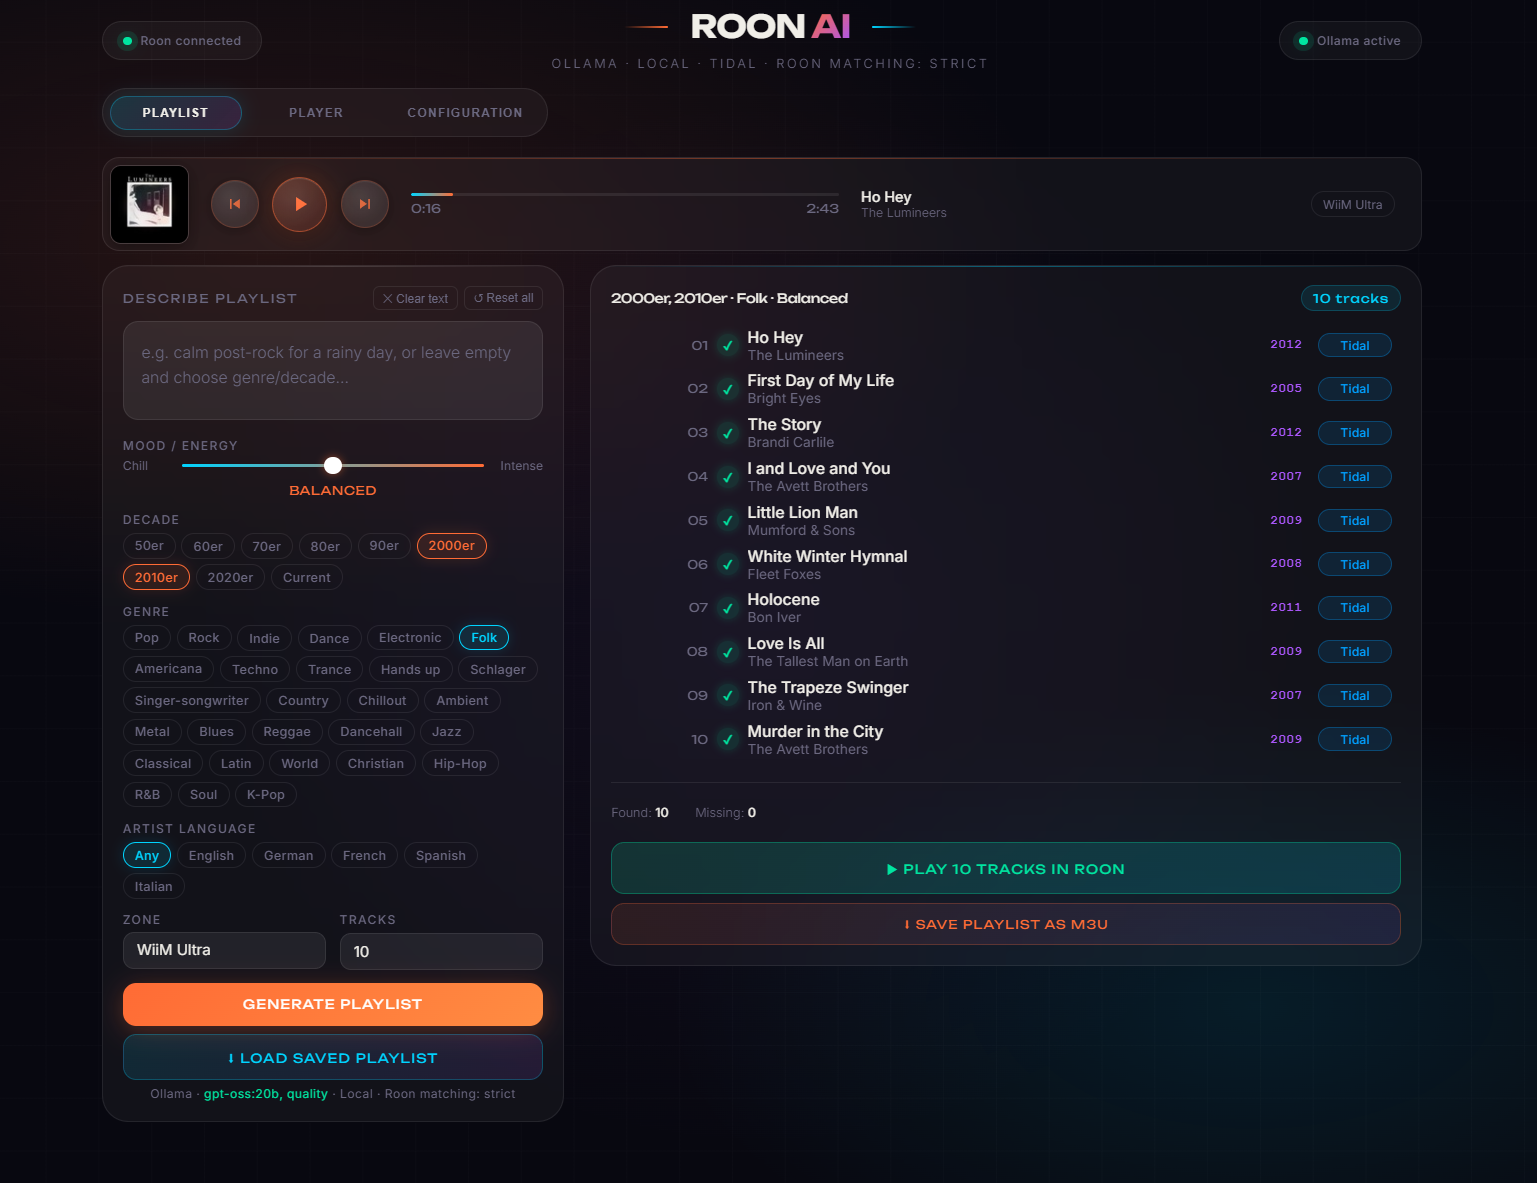
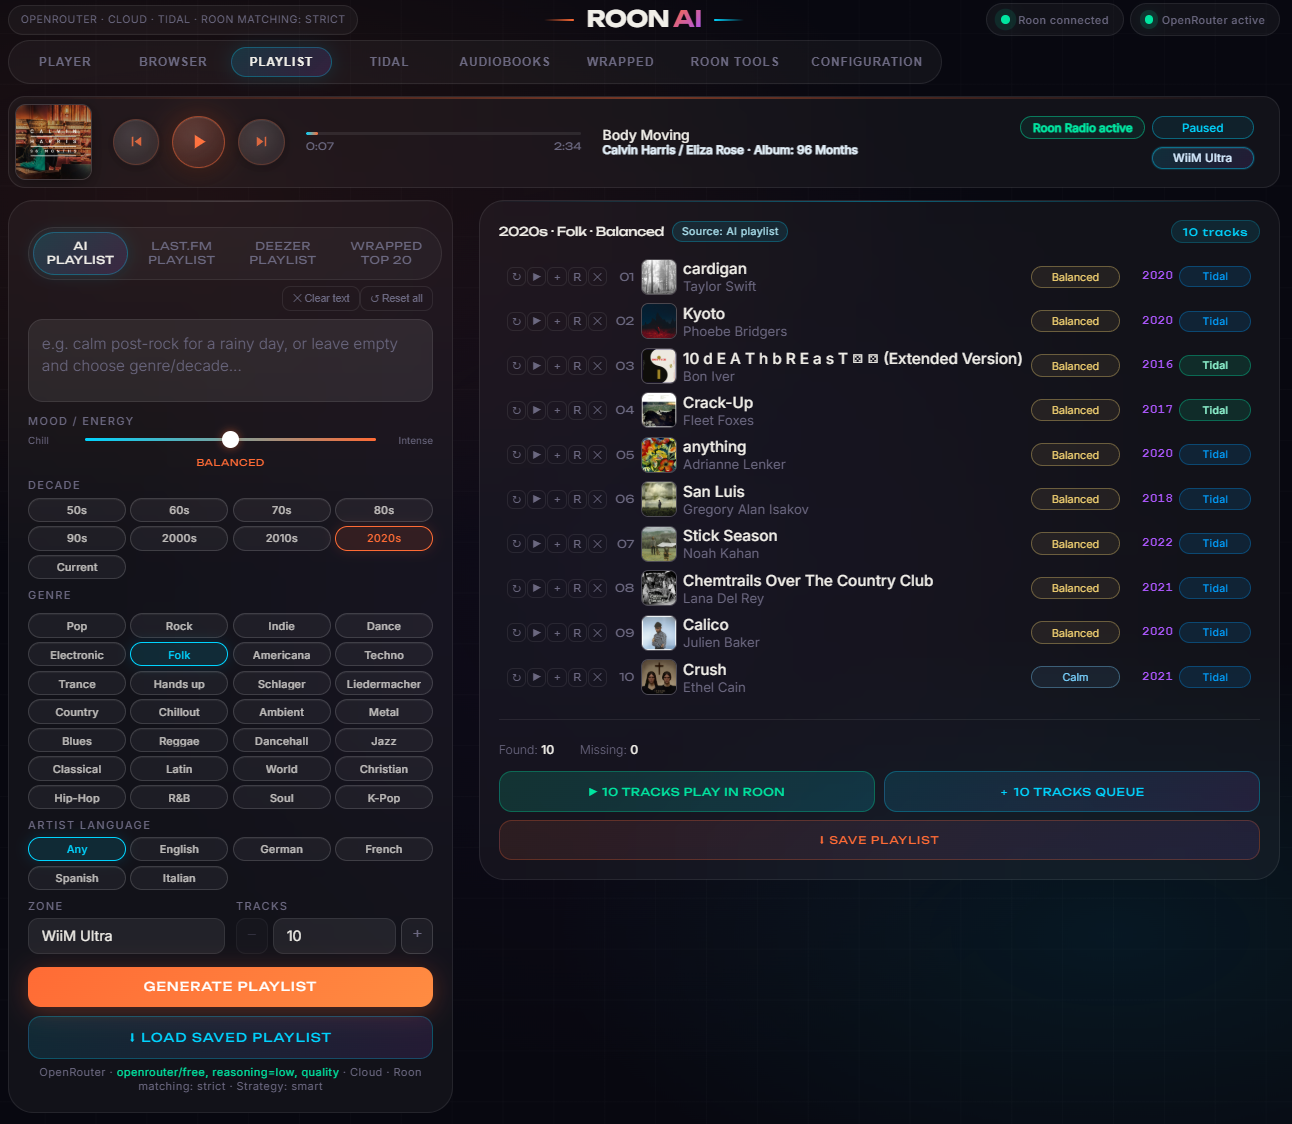
docs: add AI and Last.fm playlist visuals

diff --git a/docs/BENUTZERHANDBUCH_DE.md b/docs/BENUTZERHANDBUCH_DE.md
@@ -216,6 +216,21 @@ Die Spotify-Darstellung ist eine Ansicht für Wiedergabe, die über Roon eintrif
 5. Zielzone und gewünschte Titelanzahl wählen.
 6. Playlist erzeugen.
 
+Die freie Beschreibung darf leer bleiben, wenn die strukturierten Filter den Wunsch bereits vollständig ausdrücken. Stimmung und Energie, Jahrzehnt, Genre und Interpreten-Sprache werden mit dem aktuellen Anbieter und Modell kombiniert. Die Fußzeile nennt das erzeugende Modell und die verwendete Roon-Abgleichsstrategie.
+
+Das Ergebnis ist eine bearbeitbare Arbeitsliste und keine undurchsichtige Ein-Klick-Aktion. Einzelne Kandidaten lassen sich probeweise starten, anhängen, ersetzen oder entfernen, bevor das Gesamtergebnis an Roon übergeben wird. Providerkennzeichnung, Jahr und Energielabel helfen dabei, eine unpassende Ausgabe oder einen Ausreißer zu erkennen.
+
+### Last.fm-Tag-Playlist erstellen
+
+![Last.fm-Tags und die daraus entstandene Roon-geprüfte Playlist](../assets/screenshots/lastfm.png)
+
+1. **Last.fm-Playlist** als Quelle wählen.
+2. Einen oder mehrere Jahrzehnt-/Jahr-, Sprach-, Genre-, Stil- oder Atmosphäre-Tags markieren.
+3. Roon-Zone und Titelanzahl auswählen.
+4. **Last.fm Top-Titel laden** verwenden.
+
+Last.fm liefert populäre Kandidaten zur gewählten Tagkombination; anschließend führt die App den normalen Roon-Abgleich aus. Die Ergebnisüberschrift bewahrt die gewählten Tags, während die Fußzeile gefundene und fehlende Kandidaten trennt. **Alle zurücksetzen** löscht die Auswahl; eine zuvor gespeicherte Playlist kann geladen werden, ohne die Last.fm-Anfrage zu wiederholen.
+
 ### Roon-Abgleich verstehen
 
 Die Vorschläge werden nicht ungeprüft abgespielt. Die App sucht jeden Kandidaten in der tatsächlichen Roon-Bibliothek und zeigt:
@@ -239,7 +254,7 @@ Je nach Ansicht stehen zur Verfügung:
 
 ### Taglisten verwalten
 
-Die auswählbaren Kategorien für Last.fm-, KI- und Deezer-basierte Quellen können unter **Konfiguration > Dienste** bearbeitet und geprüft werden. Änderungen sollten vor dem Speichern validiert werden.
+Die auswählbaren Kategorien für Last.fm-, KI- und Deezer-basierte Quellen können unter **Konfiguration > Dienste** bearbeitet und geprüft werden. Änderungen sollten vor dem Speichern validiert werden. Diese gepflegten Tags bestimmen die auswählbaren Schaltflächen der Playlist-Ansicht, sodass eine Installation ihr Vokabular ohne Änderung der App anpassen kann.
 
 ## 7. Live Radio
 

diff --git a/README_DE.md b/README_DE.md
@@ -35,6 +35,18 @@ Die Anwendung läuft lokal und lässt sich auf drei Arten bedienen:
 - Treffer, unsichere Ergebnisse, fehlende Titel und mögliche Alternativen anzeigen.
 - Ergebnis in einer gewählten Roon-Zone starten oder als M3U speichern.
 
+#### KI-Playlisten mit sichtbarem Roon-Abgleich
+
+Die KI-Quelle verbindet eine optionale freie Beschreibung mit Stimmung und Energie, Jahrzehnt, Genre, Interpreten-Sprache, Zielzone und Titelanzahl. Das gewählte lokale oder Cloud-Modell schlägt die Musik vor, doch diese Vorschläge werden nicht ungeprüft abgespielt. Jeder Eintrag wird zuerst gegen Roon aufgelöst. Die Ergebnisansicht zeigt Titel, Interpret, Energie, Jahr, Providerverfügbarkeit, gefundene und fehlende Anzahl sowie einzelne Ersetzen-/Entfernen-Aktionen. Eine geprüfte Liste kann die Queue der gewählten Zone ersetzen, angehängt, gemischt oder für später gespeichert werden.
+
+![KI-Playlist-Erzeugung mit Filtern und gegen Roon geprüften Treffern](assets/screenshots/playlist.png)
+
+#### Last.fm-Playlisten ohne KI-Prompt
+
+Die Last.fm-Quelle bietet eine nachvollziehbare Alternative auf Basis gepflegter Jahrzehnt-, Sprach-, Genre-, Stil- und Atmosphäre-Tags. Mehrere Tags lassen sich kombinieren, Titelanzahl und Zielzone werden direkt gewählt und die erzeugten Kandidaten durchlaufen denselben Roon-Abgleich und dieselbe Ergebnisprüfung wie KI-Vorschläge. Die fertige Liste kann abgespielt, angehängt, gemischt, bearbeitet oder gespeichert werden; die gewählten Tags bleiben in der Ergebnisüberschrift sichtbar, sodass ihre Herkunft erkennbar ist.
+
+![Mit Tags erzeugte und für Roon geprüfte Last.fm-Playlist](assets/screenshots/lastfm.png)
+
 ### Bessere Live-Radio-Metadaten
 
 Live-Radio-Streams liefern häufig unvollständige, vertauschte oder falsch codierte Texte. Roon AI Playlist kann:
@@ -187,10 +199,6 @@ RoPieee leitet Fernbedienungsereignisse normalerweise an eine fest gewählte Roo
 - Den Bildspeicher geprüft auf ein anderes lokales Laufwerk verschieben.
 - Dienstestatus, Speicher, Caches, Providerfehler und Roon-Verbindung kontrollieren.
 - Umfangreiche Metadatenabfragen, Bilddownloads, Prüfung, Hashing und Cache-Arbeiten getrennt ausführen, damit Player, Weboberfläche, Roon-Verbindung und Netzwerk-Trigger ansprechbar bleiben.
-
-## Playlist-Beispiel
-
-![Mit Roon abgeglichene KI-Playlist](assets/screenshots/playlist.png)
 
 ## RoonAIViewer
 

diff --git a/README.md b/README.md
@@ -35,6 +35,18 @@ The application runs locally and can be operated in three ways:
 - See successful matches, uncertain results, missing tracks, and possible replacements.
 - Play the result in a chosen Roon zone or save it as an M3U playlist.
 
+#### AI playlists with visible Roon matching
+
+The AI source combines an optional free-form description with mood and energy, decade, genre, artist language, target zone, and track count. The selected local or cloud model proposes the music, but the proposal is not sent blindly to playback. Every entry is resolved against Roon first. The result view shows title, artist, energy, year, provider availability, successful and missing counts, and individual replace/remove controls. A verified list can replace the selected zone's queue, be appended, shuffled, or saved for later.
+
+![AI playlist generation with filters and Roon-matched results](assets/screenshots/playlist.png)
+
+#### Last.fm playlists without an AI prompt
+
+The Last.fm source provides a deterministic alternative based on maintained decade, language, genre, style, and atmosphere tags. Several tags can be combined, the number of tracks and target zone are chosen directly, and the generated candidates go through the same Roon matching and review stage as AI suggestions. The finished list can be played, queued, shuffled, edited, or saved; the chosen tags remain visible in the result heading so its origin is understandable.
+
+![Last.fm tag playlist matched and ready for Roon](assets/screenshots/lastfm.png)
+
 ### Better live radio metadata
 
 Live-radio streams often provide incomplete, swapped, or incorrectly encoded text. Roon AI Playlist can:
@@ -187,10 +199,6 @@ RoPieee normally directs remote-control events to one fixed Roon zone. The optio
 - Move the artwork cache to another local drive with verification.
 - Inspect service status, storage, caches, provider errors, and Roon connectivity.
 - Run extensive metadata requests, image downloads, validation, hashing, and cache work separately so the player, web interface, Roon connection, and network triggers remain responsive.
-
-## Playlist example
-
-![AI-assisted playlist matched against Roon](assets/screenshots/playlist.png)
 
 ## RoonAIViewer
 

diff --git a/docs/USER_GUIDE.md b/docs/USER_GUIDE.md
@@ -216,6 +216,21 @@ The Spotify layout is a presentation for playback that arrives through Roon, not
 5. Select the target zone and desired track count.
 6. Generate the playlist.
 
+The description may be left empty when the structured filters already express the request. Mood and energy, decade, genre, and artist language are combined with the current provider and model. The footer identifies which model generated the result and which Roon-matching strategy was applied.
+
+The result is an editable working list rather than an opaque one-click action. Individual candidates can be auditioned, queued, replaced, or removed before the complete result is sent to Roon. Provider badges, year, and energy labels make it easier to spot an unsuitable edition or an outlier.
+
+### Creating a Last.fm tag playlist
+
+![Last.fm tags and the resulting Roon-matched playlist](../assets/screenshots/lastfm.png)
+
+1. Select **Last.fm playlist** as the source.
+2. Choose one or more decade/year, language, genre, style, or atmosphere tags.
+3. Select the Roon zone and number of tracks.
+4. Choose **Load Last.fm top tracks**.
+
+Last.fm supplies popular candidates for the combined tags; the application then performs the normal Roon match. The result heading preserves the selected tags, while the footer separates found and missing candidates. **Reset all** clears the selection, and a previously saved playlist can be loaded without repeating the Last.fm request.
+
 ### Understanding Roon matching
 
 Suggestions are not played blindly. The application searches every candidate in the actual Roon library and displays:
@@ -239,7 +254,7 @@ Depending on the view, actions include:
 
 ### Managing tag lists
 
-Categories used by Last.fm, AI, and Deezer-based sources can be edited and checked under **Configuration > Services**. Validate changes before saving them.
+Categories used by Last.fm, AI, and Deezer-based sources can be edited and checked under **Configuration > Services**. Validate changes before saving them. These maintained tags determine the selectable chips in the Playlist view, so installations can adapt the vocabulary without changing the application.
 
 ## 7. Live radio
 

diff --git a/docs/FEATURES_BEYOND_ROON_DE.md b/docs/FEATURES_BEYOND_ROON_DE.md
@@ -8,6 +8,8 @@ Diese Übersicht nennt Funktionen, die **Roon AI Playlist** zusätzlich zu den B
 
 ## 1. KI- und externe Playlist-Erzeugung
 
+![KI-Playlist-Filter und gegen Roon geprüftes Ergebnis](../assets/screenshots/playlist.png)
+
 - Playlisten aus freien natürlichsprachlichen Wünschen erzeugen.
 - Ollama, OpenRouter, OpenAI, Gemini oder Claude als KI-Anbieter wählen.
 - Prompts mit Genre, Jahrzehnt, Stimmung und Sprache kombinieren.
@@ -18,6 +20,12 @@ Diese Übersicht nennt Funktionen, die **Roon AI Playlist** zusätzlich zu den B
 - Ersatztracks für fehlende oder unsichere Kandidaten ermitteln.
 - Wrapped Top 20 als Playlistquelle verwenden.
 - Ergebnisse als M3U speichern, laden und prüfen.
+
+Die KI-Erzeugung bleibt eine Vorschlagsstufe: Gewähltes Modell, strukturierte Filter und optionaler Freitext liefern Kandidaten, während die App jeden Roon-Treffer vor der Wiedergabe sichtbar macht. Einzelne Einträge lassen sich probeweise starten, ersetzen, entfernen oder anhängen; das vollständige geprüfte Ergebnis kann eine Zonen-Queue starten oder erweitern.
+
+![Last.fm-Tagauswahl und abgeglichene Top-Titel](../assets/screenshots/lastfm.png)
+
+Last.fm-Playlisten verwenden gepflegte Jahrzehnt-, Sprach-, Genre-, Stil- und Atmosphäre-Tags und benötigen keinen KI-Prompt. Mehrere Tags lassen sich kombinieren; die populären Kandidaten durchlaufen anschließend exakt denselben sichtbaren Roon-Abgleich und Bearbeitungsablauf.
 
 Roon besitzt mit Valence und Roon Radio eine eigene Empfehlungslogik und verwaltet normale Playlisten, bietet aber keine frei formulierbare Multi-KI-Playlistgenerierung mit wählbarem KI-Anbieter. Siehe [Roon Valence](https://help.roonlabs.com/portal/en/kb/articles/valence) und [Roon Playlists](https://help.roonlabs.com/portal/en/kb/articles/playlists).
 

diff --git a/docs/FEATURES_BEYOND_ROON.md b/docs/FEATURES_BEYOND_ROON.md
@@ -8,6 +8,8 @@ This overview lists capabilities that **Roon AI Playlist** adds beyond standard 
 
 ## 1. AI and external playlist generation
 
+![AI playlist filters and Roon-matched result](../assets/screenshots/playlist.png)
+
 - Generate playlists from free-form natural-language requests.
 - Select Ollama, OpenRouter, OpenAI, Gemini, or Claude as the AI provider.
 - Combine prompts with genre, decade, mood, and language filters.
@@ -18,6 +20,12 @@ This overview lists capabilities that **Roon AI Playlist** adds beyond standard 
 - Find replacement tracks for missing or uncertain candidates.
 - Use Wrapped Top 20 as a playlist source.
 - Save, load, and validate M3U results.
+
+AI generation remains a proposal stage: the chosen model, structured filters, and optional free text produce candidates, while the application exposes every Roon match before playback. Individual entries can be auditioned, replaced, removed, or queued, and the complete verified result can start or extend a zone queue.
+
+![Last.fm tag selection and matched top tracks](../assets/screenshots/lastfm.png)
+
+Last.fm playlists use maintained decade, language, genre, style, and atmosphere tags instead of requiring an AI prompt. Several tags can be combined and the popular candidates pass through exactly the same visible Roon matching and editing workflow.
 
 Roon provides its own recommendation engine through Valence and Roon Radio and manages conventional playlists, but it does not provide free-form multi-provider AI playlist generation. See [Roon Valence](https://help.roonlabs.com/portal/en/kb/articles/valence) and [Roon Playlists](https://help.roonlabs.com/portal/en/kb/articles/playlists).
 
